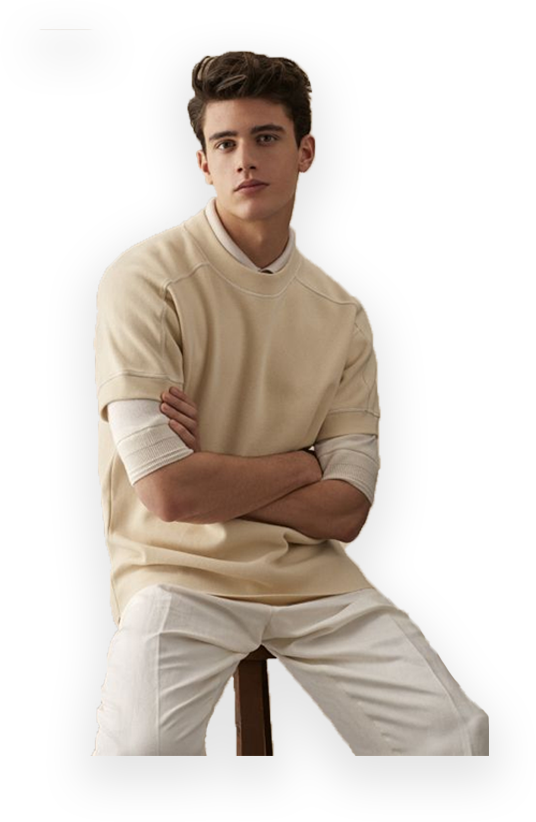
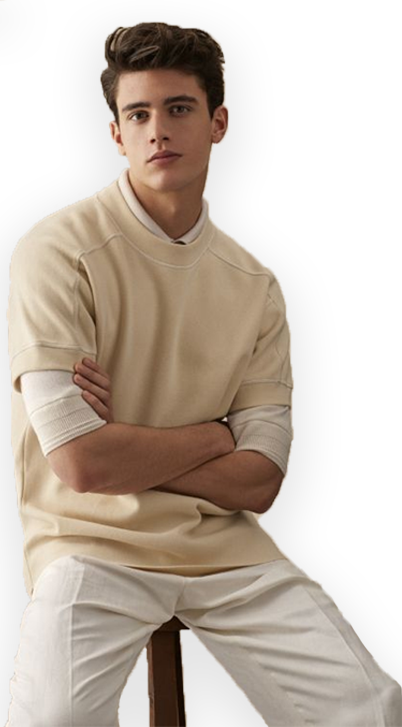
update progect.section "home"

diff --git a/homepage.html b/homepage.html
@@ -5,7 +5,7 @@
 	<meta http-equiv="Content-Type" content="text/html; charset=utf-8" />
 	<meta name="viewport" content="width=device-width; initial-scale=1;">
 	<link rel="stylesheet" href="css/all.css" type="text/css"/>
-	<link rel="stylesheet" href="font/font-face.css" type="text/css" />
+	<!-- <link rel="stylesheet" href="font/font-face.css" type="text/css" /> -->
 	<link href="https://fonts.googleapis.com/css?family=Cormorant:300,400,500" rel="stylesheet">
 	<link href="https://fonts.googleapis.com/css?family=Montserrat:700" rel="stylesheet">
 	<script type="text/javascript" src="js/main.js"></script>
@@ -14,44 +14,41 @@
 
 <body>
 
+<!-- ************************** HOME ******************* -->
 
-		<!-- **********HEADER ****************************** -->
-		<header id="header">
-				<div class="logo">
-					<a href="#">mealex.</a>
-				</div>
-				<ul class="navigation">
-					<li><a href="#">Home</a></li>
-					<li><a href="#">About</a></li>
-					<li><a href="#">Service</a></li>
-					<li><a href="#">Portfolio</a></li>
-					<li><a href="#">Contact</a></li>
-				</ul>
-		</header>
-		<!-- ************************** HOME ******************* -->
-
-		<div id="home">
-			<div id="home-text">
-				<h1>alex vidal</h1>
-				<p>Full Stack Developer</p>
-				<button class="btn-hireme">HIRE ME</button>
-				<button class="btn-expmore">EXPLORE MORE</button>
-				<div class="border-1"></div>
-			</div>
-			<div class="home-photo">
+<div id="home">
+	<div class="logo">
+		<a href="#">mealex.</a>
+	</div>
+		<ul class="menu">
+			<li><a href="#">Home</a></li>
+			<li><a href="#">About</a></li>
+			<li><a href="#">Service</a></li>
+			<li><a href="#">Portfolio</a></li>
+			<li><a href="#">Contact</a></li>
+		</ul>
+		<div class="hero-bg">
+			<div class="hero-img">
 				<img src="./images/alex-vidal-photo.png" alt="alex vidal photo" />
 			</div>
-			<div class="border-2"></div>
-
+			<div class="hero-border-2"></div>
+		</div>
+	<div id="hero-content">
+			<h1>alex vidal</h1>
+			<p>Full Stack Developer</p>
+			<button class="btn-hireme">HIRE ME</button>
+			<button class="btn-expmore">EXPLORE MORE</button>
+			<div class="hero-border-1"></div>
 	</div>
+</div>
 	<!-- ************************** ABOUT ******************* -->
 
-	<div class="about">
+<div class="about">
 		<h1>about</h1>
 		<div class="span-hr"></div>
 		<p>Hello! I'm Alex, a full stuck developer, a Ruby enthusiast, and a guy slighty obsessed for code quality. Also I'm a co-founder of pykod.com. I’m currently available for freelance work. If you have a project that you want to get started or think you need my help with something, then get in touch.</p>
 		<button class="btn-download">DOWNLOAD MY CV</button>
-	</div>
+</div>
 
 	<!-- ************************** SKILLS ******************* -->
 	<div class="skills">
@@ -143,7 +140,7 @@
 		<h1>10</h1>
 		<h2>Seconds on this site! What are you waiting for?</h2>
 	</li>
-</ul>
+	</ul>
 
 <div class="contact">
 	<h1>contact</h1>

diff --git a/css/all.css b/css/all.css
@@ -77,14 +77,20 @@ strong {}
 	padding:0 0;
 }
 
-#header {
+#home {
 	width:100%;
 	display:block;
 	position:relative;
 	margin-top: 50px;
 }
 
-#header .logo a {
+#home .logo {
+	margin: 20px;
+
+}
+
+#home .logo a {
+
 	font-family: 'Montserrat';
 	font-size: 24px;
 	color: black;
@@ -100,20 +106,50 @@ strong {}
   background-position: center;
 }
 
-#header .navigation{
+#home .menu{
+	margin: -50px 100px auto;
 	height: 88px;
 	position: relative;
 	float: right;
 }
-#header .navigation li{
+#home .menu li{
 	display: inline-block;
 	margin: 0 -2px 0 -2px;
 	font-family: 'Cormorant';
 	text-transform: uppercase;
+
 }
-#header .navigation li a:hover{
+
+#home .menu li a{
+		color: black;
+		margin: 0px 10px;
+}
+
+#home .menu li a:hover{
 	border-bottom: 2px solid black;
 }
+
+#home .hero-bg{
+	width: 648px;
+	height: 800px;
+	background-color: #e1e1e1;
+	float: right;
+	margin: -140px auto;
+	z-index: 0;
+}
+#home .hero-bg .hero-img{
+	width: 450px;
+	height: 727px;
+	margin: 20px 0 0 0;
+	vertical-align: bottom;
+
+
+}
+
+#hero-area {
+	width: 1170px;
+}
+
 
 
 
